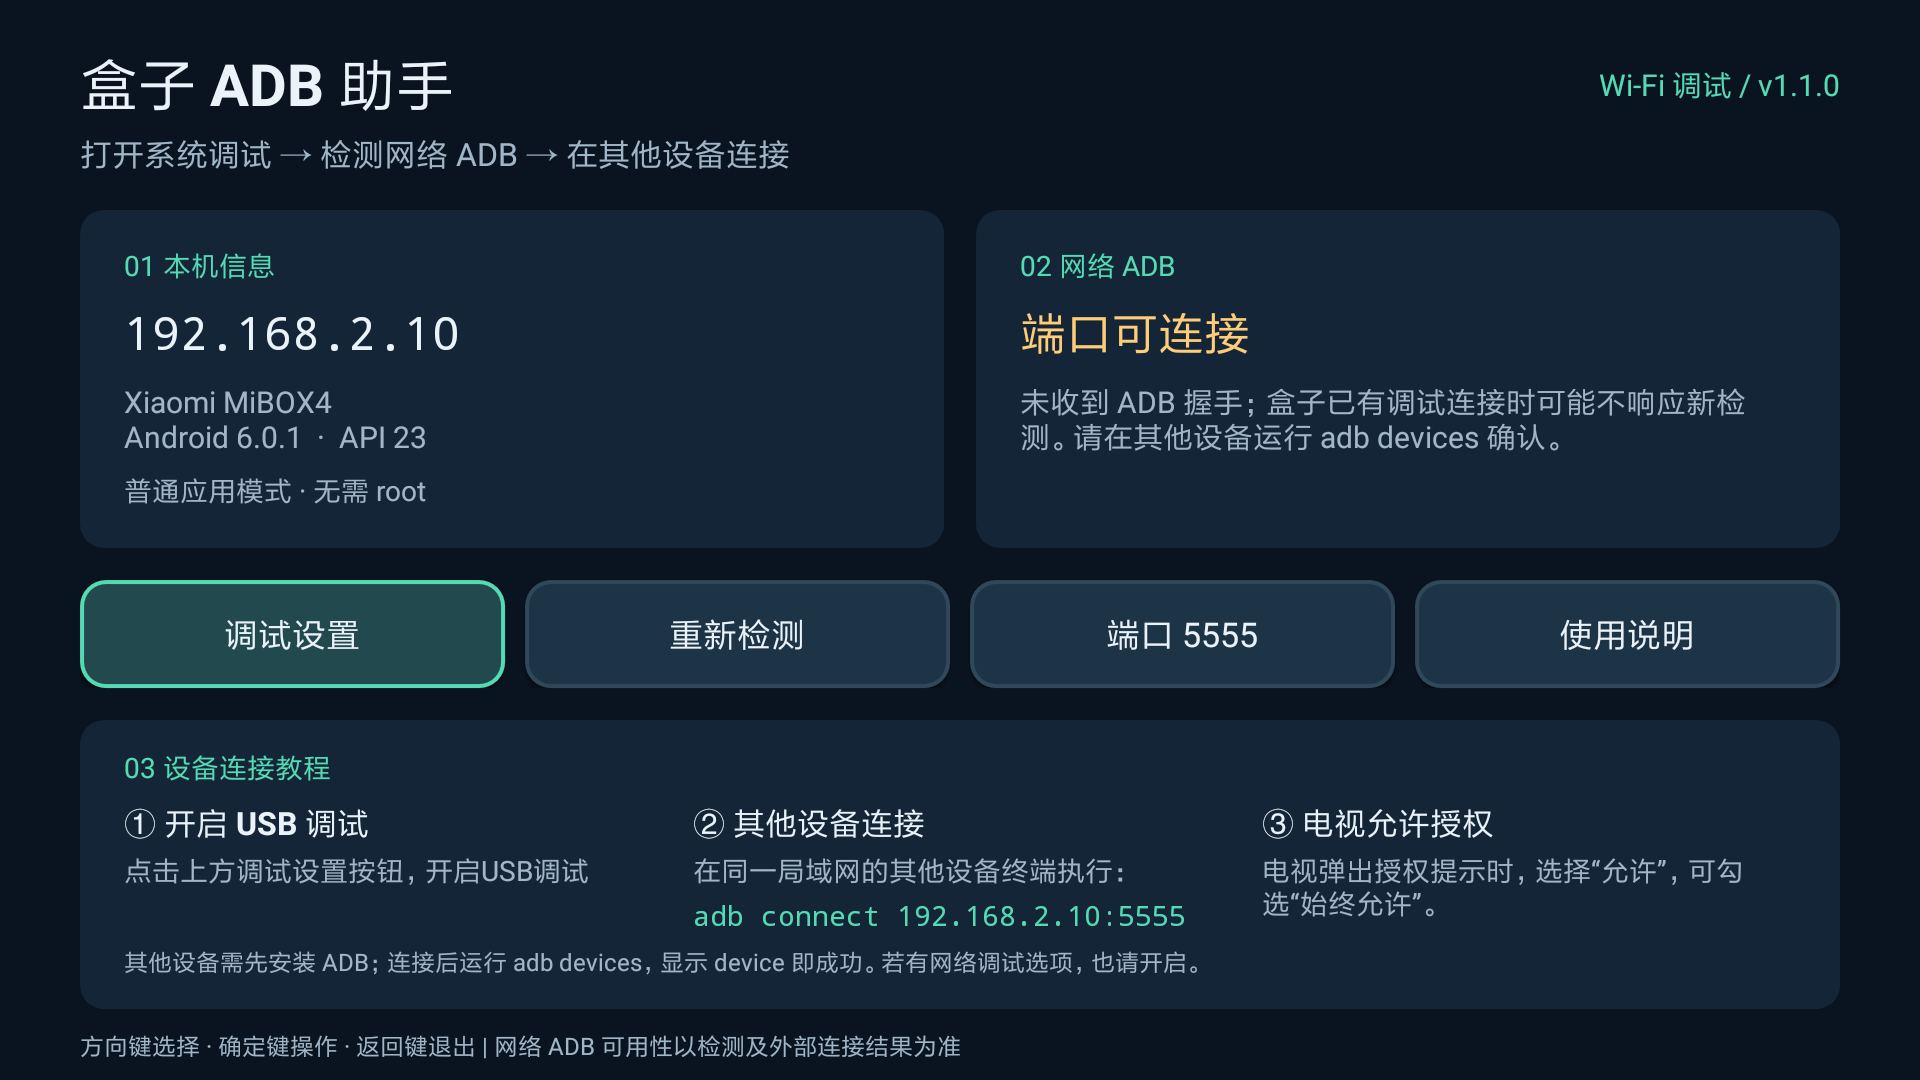
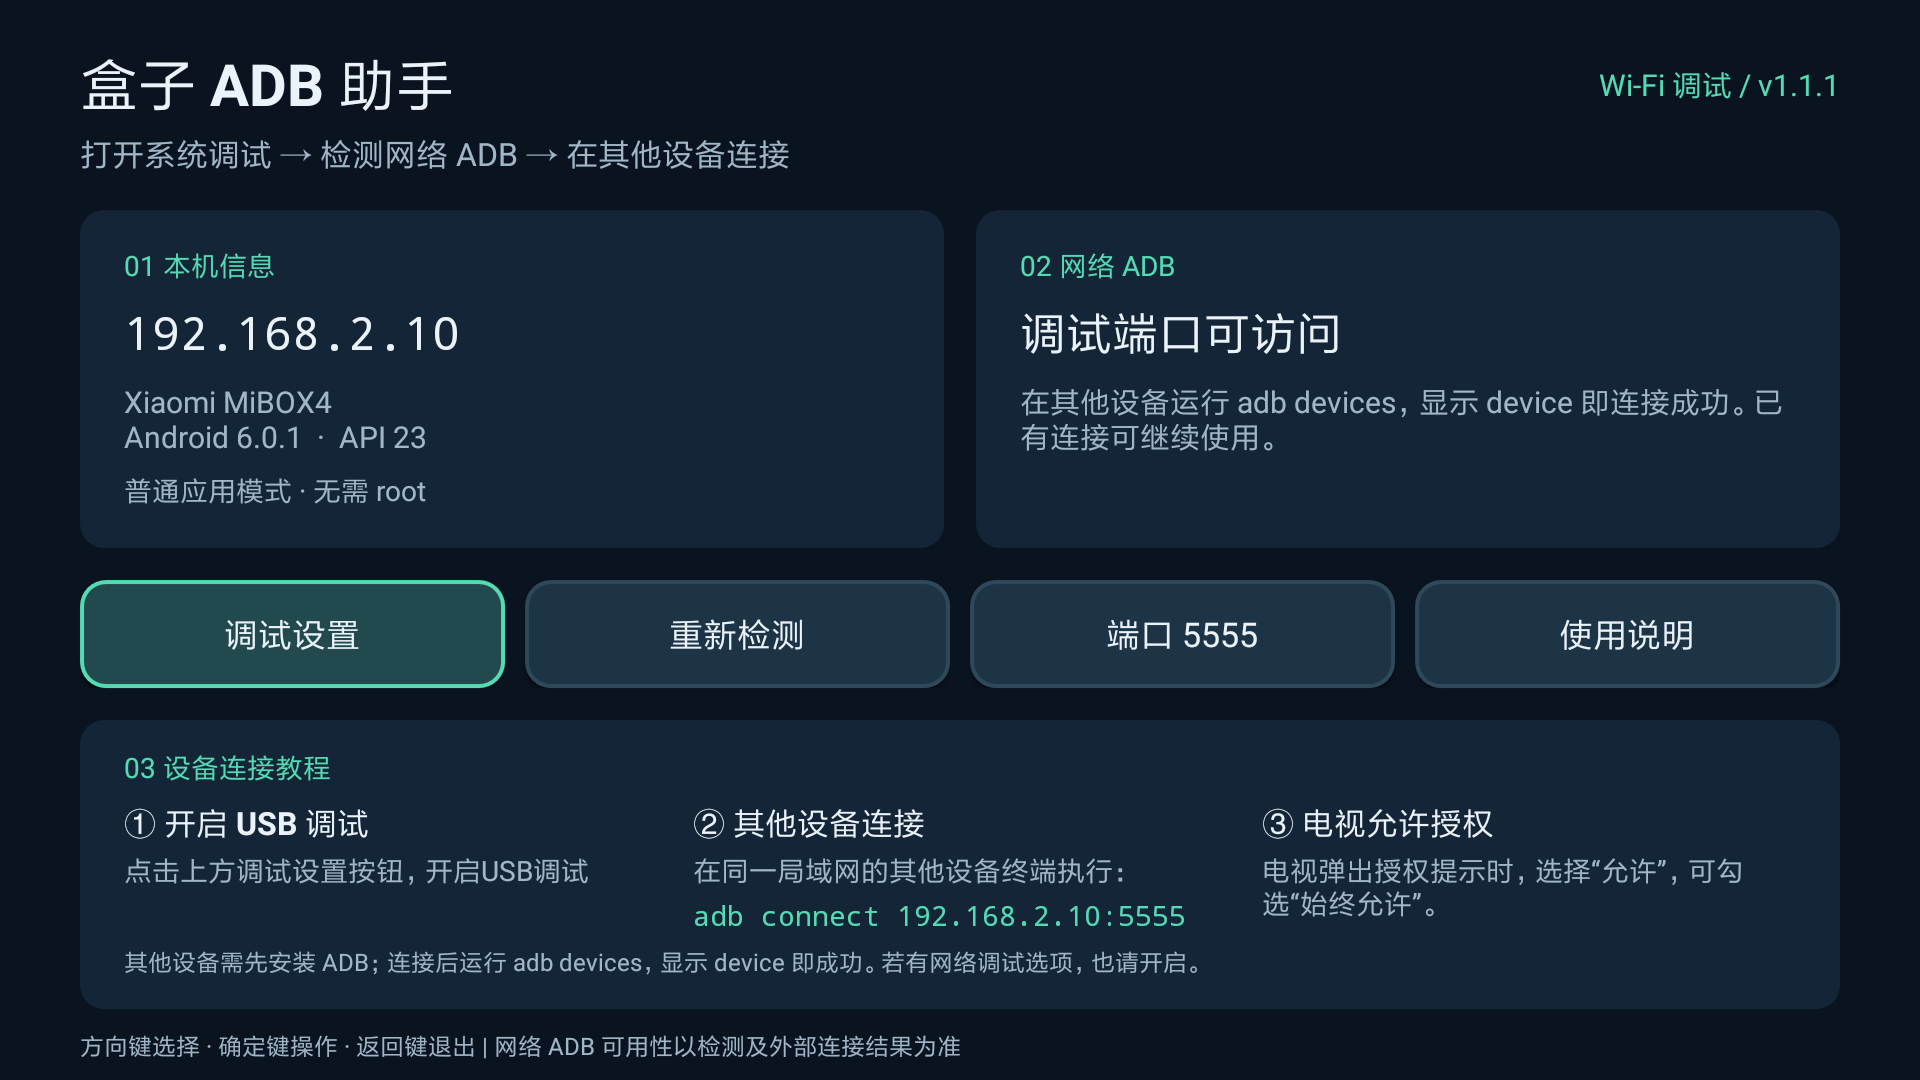
Fix misleading ADB status messages and release 1.1.1

Changed region(s): [[0.5312, 0.275, 0.9375, 0.4278], [0.9375, 0.0611, 0.9688, 0.0917]]

diff --git a/src/cn/boxadb/helper/MainActivity.java b/src/cn/boxadb/helper/MainActivity.java
@@ -93,7 +93,7 @@ public final class MainActivity extends Activity {
         LinearLayout header = new LinearLayout(this); header.setGravity(Gravity.CENTER_VERTICAL);
         TextView title = text(getString(R.string.app_name), 29, WHITE); title.setTypeface(null, Typeface.BOLD);
         header.addView(title, new LinearLayout.LayoutParams(0, -2, 1));
-        header.addView(text(getString(R.string.version_label, "1.1.0"), 15, GREEN)); add(root, header, 0);
+        header.addView(text(getString(R.string.version_label, "1.1.1"), 15, GREEN)); add(root, header, 0);
         add(root, text(getString(R.string.tagline), 16, MUTED), 8);
 
         LinearLayout row = new LinearLayout(this); row.setOrientation(LinearLayout.HORIZONTAL);
@@ -214,10 +214,10 @@ public final class MainActivity extends Activity {
                     command.setText("adb connect " + lanIp + ":" + probePort);
                     caption.setText(getString(R.string.caption_success));
                 } else if (local.isAdb()) {
-                    status.setText(getString(R.string.local_only)); status.setTextColor(AMBER);
+                    status.setText(getString(R.string.local_only)); status.setTextColor(WHITE);
                     detail.setText(getString(R.string.local_only_detail));
                 } else if (unconfirmed) {
-                    status.setText(getString(R.string.port_reachable)); status.setTextColor(AMBER);
+                    status.setText(getString(R.string.port_reachable)); status.setTextColor(WHITE);
                     detail.setText(getString(R.string.port_reachable_detail));
                 } else {
                     status.setText(getString(R.string.adb_not_detected)); status.setTextColor(AMBER);

diff --git a/README.md b/README.md
@@ -102,7 +102,7 @@ Then run PowerShell from the repository root:
 .\build.ps1 -Sdk 'C:\path\to\Android\Sdk' -Jdk 'C:\path\to\jdk-21'
 ```
 
-The APK is written to `build/box-adb-helper-1.1.0.apk`. The script uses aapt2, javac, D8, zipalign and apksigner, including v1 signing for Android 5.
+The APK is written to `build/box-adb-helper-1.1.1.apk`. The script uses aapt2, javac, D8, zipalign and apksigner, including v1 signing for Android 5.
 
 By default, a local development key is created in `.signing/`. Builds made with a different key cannot overwrite an installed release; use the same signing key or uninstall the old app first. The original release key is kept privately and is not committed.
 

diff --git a/README.zh-CN.md b/README.zh-CN.md
@@ -103,7 +103,7 @@ build-tools;35.0.0
 .\build.ps1 -Sdk 'C:\path\to\Android\Sdk' -Jdk 'C:\path\to\jdk-21'
 ```
 
-APK 输出到 `build/box-adb-helper-1.1.0.apk`。脚本使用 aapt2、javac、D8、zipalign 和 apksigner，包含 Android 5 所需的 v1 签名。
+APK 输出到 `build/box-adb-helper-1.1.1.apk`。脚本使用 aapt2、javac、D8、zipalign 和 apksigner，包含 Android 5 所需的 v1 签名。
 
 默认在 `.signing/` 中生成本地开发密钥。不同密钥签名的 APK 无法覆盖安装现有 Release，请使用相同密钥或先卸载旧版本。正式发布沿用的原签名密钥保存在本地，不提交到仓库。
 
